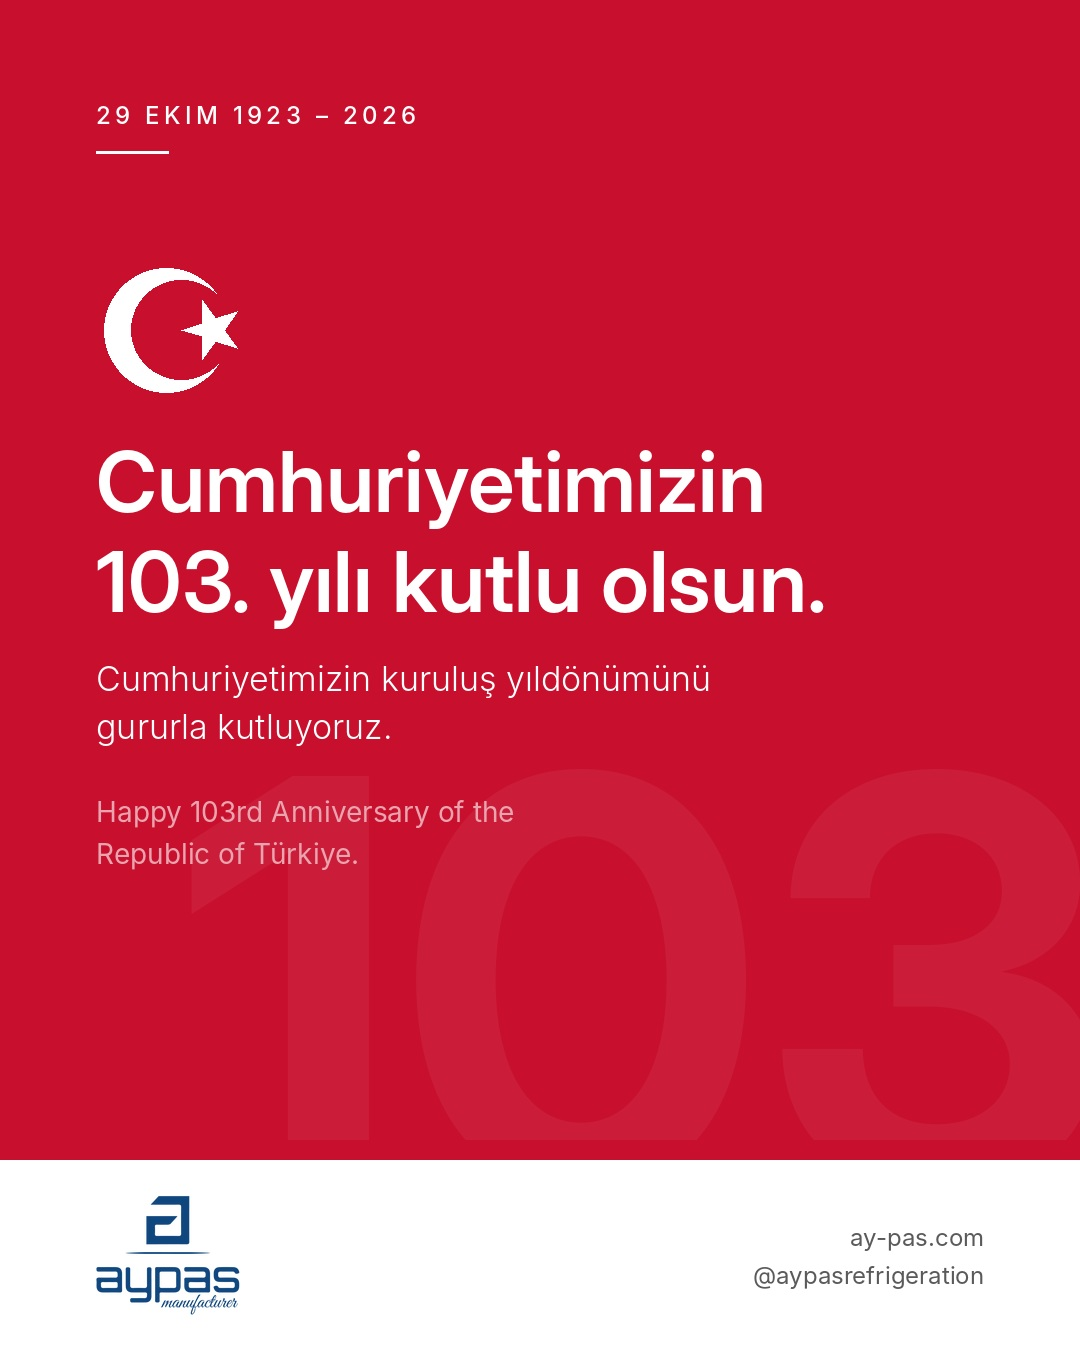
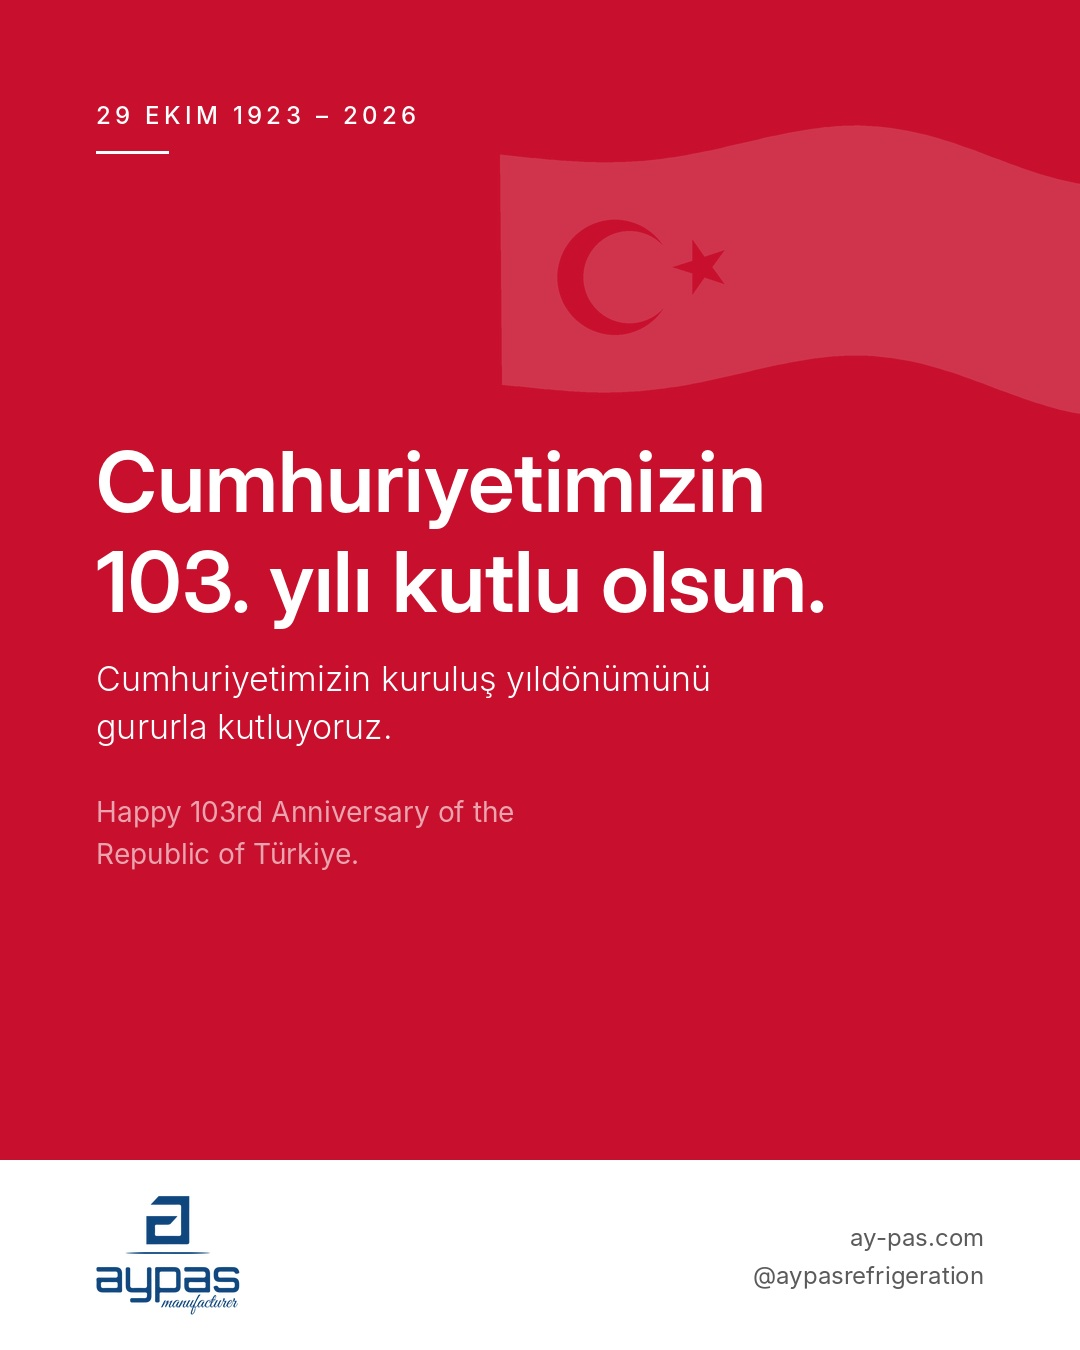
10 Kasım'a Anıtkabir silueti, 29 Ekim'e dalgalanan bayrak
Claude-Session: https://claude.ai/code/session_01QyKTwVpSWmACfzbs95J8UL

Changed region(s): [[0.4583, 0.0933, 1.0, 0.3111], [0.0917, 0.1867, 0.1833, 0.3111], [0.1833, 0.2178, 0.2139, 0.28]]

diff --git a/araclar/tasarim.py b/araclar/tasarim.py
@@ -59,12 +59,95 @@ def ay_yildiz(d, cx, cy, r, renk, zemin):
         pts.append((sx + rr * math.cos(a), cy + rr * math.sin(a)))
     d.polygon(pts, fill=renk)
 
+SS = 3  # süper örnekleme (yumuşak çizgiler)
+
+def anitkabir(renk=(255, 255, 255), alfa=70, x0=96, x1=984, ust=1040, alt=1135):
+    """Anıtkabir Şeref Holü — önden ince çizgi silueti (alt şeritte, ufuk çizgisi gibi)."""
+    def ciz():
+        k = Image.new('RGBA', (W * SS, H * SS), (0, 0, 0, 0))
+        d = ImageDraw.Draw(k)
+        c = renk + (alfa,)
+        s = lambda v: int(v * SS)
+        lw = s(1.6)
+        cx = (x0 + x1) / 2
+        gen = (x1 - x0) * 0.62           # hol genişliği
+        hl, hr = cx - gen / 2, cx + gen / 2
+        h = alt - ust
+        # zemin çizgisi (tam genişlik)
+        d.line([(s(x0), s(alt)), (s(x1), s(alt))], fill=c, width=lw)
+        # merdiven: 5 basamak, yukarı doğru daralan
+        bas = h * 0.20
+        for i in range(5):
+            yy = alt - bas * (i + 1) / 5
+            pad = gen * 0.10 * (1 - (i + 1) / 5) + gen * 0.02
+            d.line([(s(hl - pad), s(yy)), (s(hr + pad), s(yy))], fill=c, width=lw)
+        kaide = alt - bas
+        # sütunlar (ön cephe: 8 kare sütun)
+        tepe = ust + h * 0.26
+        n = 8
+        sg = gen * 0.028
+        for i in range(n):
+            xx = hl + gen * 0.04 + (gen * 0.92 - sg) * i / (n - 1)
+            d.rectangle([s(xx), s(tepe), s(xx + sg), s(kaide)], outline=c, width=lw)
+        # saçaklık / attik
+        d.rectangle([s(hl - gen * 0.015), s(ust), s(hr + gen * 0.015), s(tepe)], outline=c, width=lw)
+        d.line([(s(hl - gen * 0.015), s(ust + h * 0.09)), (s(hr + gen * 0.015), s(ust + h * 0.09))], fill=c, width=lw)
+        # yan revaklar (alçak, iki yana uzanan)
+        rv = ust + h * 0.55
+        for a, b in [(x0 + 20, hl - gen * 0.06), (hr + gen * 0.06, x1 - 20)]:
+            d.line([(s(a), s(rv)), (s(b), s(rv))], fill=c, width=lw)
+            for j in range(9):
+                xx = a + (b - a) * j / 8
+                d.line([(s(xx), s(rv)), (s(xx), s(alt))], fill=c, width=lw)
+        return k.resize((W, H), Image.LANCZOS)
+    return ciz
+
+def dalgali_bayrak(zemin, alfa=26, x0=330, y0=560, gen=900, yuk=600, genlik=34):
+    """Soluk, dalgalanan Türk bayrağı (beyaz yarı saydam alan, ay-yıldız oyuk)."""
+    def ciz():
+        k = Image.new('RGBA', (W * SS, H * SS), (0, 0, 0, 0))
+        d = ImageDraw.Draw(k)
+        s = lambda v: v * SS
+        def dy(x):
+            t = (x - x0) / gen
+            return genlik * math.sin(2 * math.pi * t * 1.3 + 0.6) * (0.25 + t)
+        ust = [(s(x), s(y0 + dy(x))) for x in range(int(x0), int(x0 + gen) + 1, 6)]
+        alt = [(s(x), s(y0 + yuk + dy(x))) for x in range(int(x0 + gen), int(x0) - 1, -6)]
+        d.polygon(ust + alt, fill=(255, 255, 255, alfa))
+        # ay-yıldız (bayrak oranları; G = bayrak yüksekliği)
+        G = yuk
+        cx = x0 + G * 0.5
+        cy = y0 + G / 2 + dy(cx)
+        r1, r2, kay = G * 0.25, G * 0.20, G * 0.0625
+        bos = (0, 0, 0, 0)
+        d.ellipse([s(cx - r1), s(cy - r1), s(cx + r1), s(cy + r1)], fill=bos)
+        d.ellipse([s(cx + kay - r2), s(cy - r2), s(cx + kay + r2), s(cy + r2)], fill=(255, 255, 255, alfa))
+        sr = G * 0.125
+        sx = cx + kay + r2 + sr * 0.9
+        sy = y0 + G / 2 + dy(sx)
+        pts = []
+        for i in range(10):
+            rr = sr if i % 2 == 0 else sr * 0.382
+            a = math.pi + i * math.pi / 5
+            pts.append((s(sx + rr * math.cos(a)), s(sy + rr * math.sin(a))))
+        d.polygon(pts, fill=bos)
+        return k.resize((W, H), Image.LANCZOS)
+    return ciz
+
 def kart(dosya, zemin, ust_etiket, baslik, aciklama, ingilizce,
          yazi=BEYAZ, soluk=None, logo_renk=BEYAZ, filigran=None, sembol=None,
-         alt_zemin=None, alt_yazi=None, alt_logo=None):
+         alt_zemin=None, alt_yazi=None, alt_logo=None, gorsel=None):
     soluk = soluk or tuple(int(c * 0.62 + z * 0.38) for c, z in zip(yazi, zemin))
     img = Image.new('RGBA', (W, H), zemin + (255,))
     d = ImageDraw.Draw(img)
+
+    # sembolik çizim katmanı (Anıtkabir, bayrak vb.) — metnin arkasında
+    if gorsel:
+        kat = gorsel()
+        kat_d = ImageDraw.Draw(kat)
+        kat_d.rectangle([0, 1140, W, H], fill=(0, 0, 0, 0))
+        img.alpha_composite(kat)
+        d = ImageDraw.Draw(img)
 
     # çok soluk büyük sayı (filigran)
     if filigran:
@@ -125,15 +208,15 @@ def uret_2026(klasor):
          ['Cumhuriyetimizin', '103. yılı kutlu olsun.'],
          ['Cumhuriyetimizin kuruluş yıldönümünü', 'gururla kutluyoruz.'],
          ['Happy 103rd Anniversary of the', 'Republic of Türkiye.'],
-         filigran='103',
-         sembol=lambda d, x, y: ay_yildiz(d, x, y, 62, BEYAZ, KIRMIZI),
+         gorsel=dalgali_bayrak(KIRMIZI, alfa=38, x0=500, y0=150, gen=680, yuk=230, genlik=32),
          alt_zemin=BEYAZ, alt_yazi=(90, 90, 90), alt_logo=MAVI)
     kart(os.path.join(klasor, '02_10kasim.jpg'), SIYAH,
          '10 Kasım 1938  ·  09:05',
          ['Saygı, minnet', 've özlemle.'],
          ['Cumhuriyetimizin kurucusu Gazi Mustafa', 'Kemal Atatürk\'ü saygıyla anıyoruz.'],
          ['In respectful memory of Mustafa Kemal', 'Atatürk, founder of the Republic of Türkiye.'],
-         yazi=(236, 236, 236))
+         yazi=(236, 236, 236),
+         gorsel=anitkabir(renk=(236, 236, 236), alfa=95, ust=935, alt=1125))
     kart(os.path.join(klasor, '03_24kasim.jpg'), MAVI,
          '24 Kasım  ·  Öğretmenler Günü',
          ['Öğretmenler Günü', 'kutlu olsun.'],

diff --git a/README.md b/README.md
@@ -13,7 +13,7 @@ Instagram paylaşımları Facebook sayfasına otomatik düşer.
 ## Kurallar (aylık otomatik görev için)
 - Kullanıcının isteği: görseller CİDDİ, PROFESYONEL ve KURUMSAL olmalı.
 - Yeni görsel = `araclar/tasarim.py` içindeki `kart()` ile; ızgara, tipografi, alt bant DEĞİŞTİRİLMEZ.
-- Yasak: clip-art, emoji, ikon süsü, kar tanesi/balon/konfeti, gradyan efektleri, birden fazla sembol, gerçek kişi görseli (Atatürk dahil). İzinli tek sembol: ay-yıldız (milli bayramlarda). İzinli tek vurgu: çok soluk büyük yıl/sayı (filigran).
+- Yasak: clip-art, emoji, ikon süsü, kar tanesi/balon/konfeti, gradyan efektleri, birden fazla sembol, gerçek kişi görseli (Atatürk dahil). Görsel başına EN FAZLA BİR sembolik öğe, soluk/ince çizgi halinde: `dalgali_bayrak()` (milli bayramlar), `anitkabir()` (anma günleri), ileride benzer mimari/anıt siluetleri (ör. Dumlupınar anıtı – 30 Ağustos), ya da çok soluk büyük yıl/sayı (filigran). Yeni sembol eklenecekse aynı ince çizgi / düşük opaklık dilinde çizilir.
 - Format: 1080×1350 JPG. Metin Türkçe + İngilizce, kısa ve resmi; başlık en fazla 2 satır.
 - Renkler: milli bayramlar KIRMIZI (beyaz alt bant), anma günleri SİYAH, diğerleri MAVI veya LACIVERT.
 - Paylaşım metni: Türkçe paragraf, boş satır, İngilizce paragraf, boş satır, 3–5 hashtag (#AyPas dahil).
